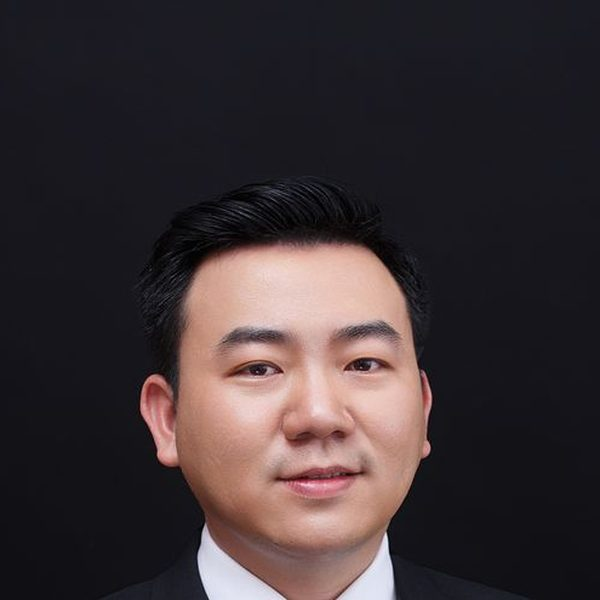
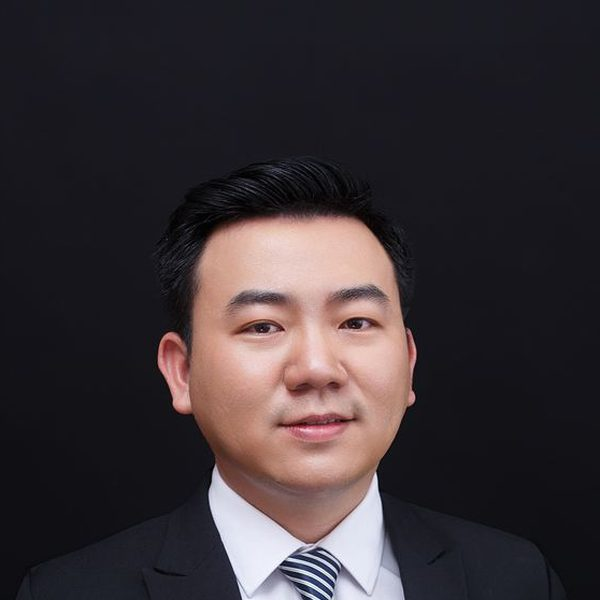
fix(landing): kartu pembicara persegi agar wajah tidak terpotong

Changed region(s): [[0.21, 0.27, 0.72, 1.0], [0.87, 0.93, 0.9, 0.96]]

diff --git a/resources/views/public/landing.blade.php b/resources/views/public/landing.blade.php
@@ -181,8 +181,8 @@
             @foreach($speakers as $speaker)
                 @if($speaker->foto)
                     <article class="group overflow-hidden rounded-[28px] bg-white/[0.06] ring-1 ring-white/10">
-                        <div class="relative aspect-[4/3] overflow-hidden">
-                            <img src="{{ \Illuminate\Support\Facades\Storage::disk('public')->url($speaker->foto) }}" alt="{{ $speaker->nama_speaker }}" class="h-full w-full object-cover object-top transition duration-500 group-hover:scale-105" loading="lazy">
+                        <div class="relative aspect-square overflow-hidden">
+                            <img src="{{ \Illuminate\Support\Facades\Storage::disk('public')->url($speaker->foto) }}" alt="{{ $speaker->nama_speaker }}" class="h-full w-full object-cover transition duration-500 group-hover:scale-105" loading="lazy">
                             <div class="absolute inset-0 bg-gradient-to-t from-[#072b1b] via-[#072b1b]/20 to-transparent" aria-hidden="true"></div>
                             <div class="absolute inset-x-0 bottom-0 p-5">
                                 <h3 class="text-lg font-bold leading-tight">{{ $speaker->nama_speaker }}</h3>
